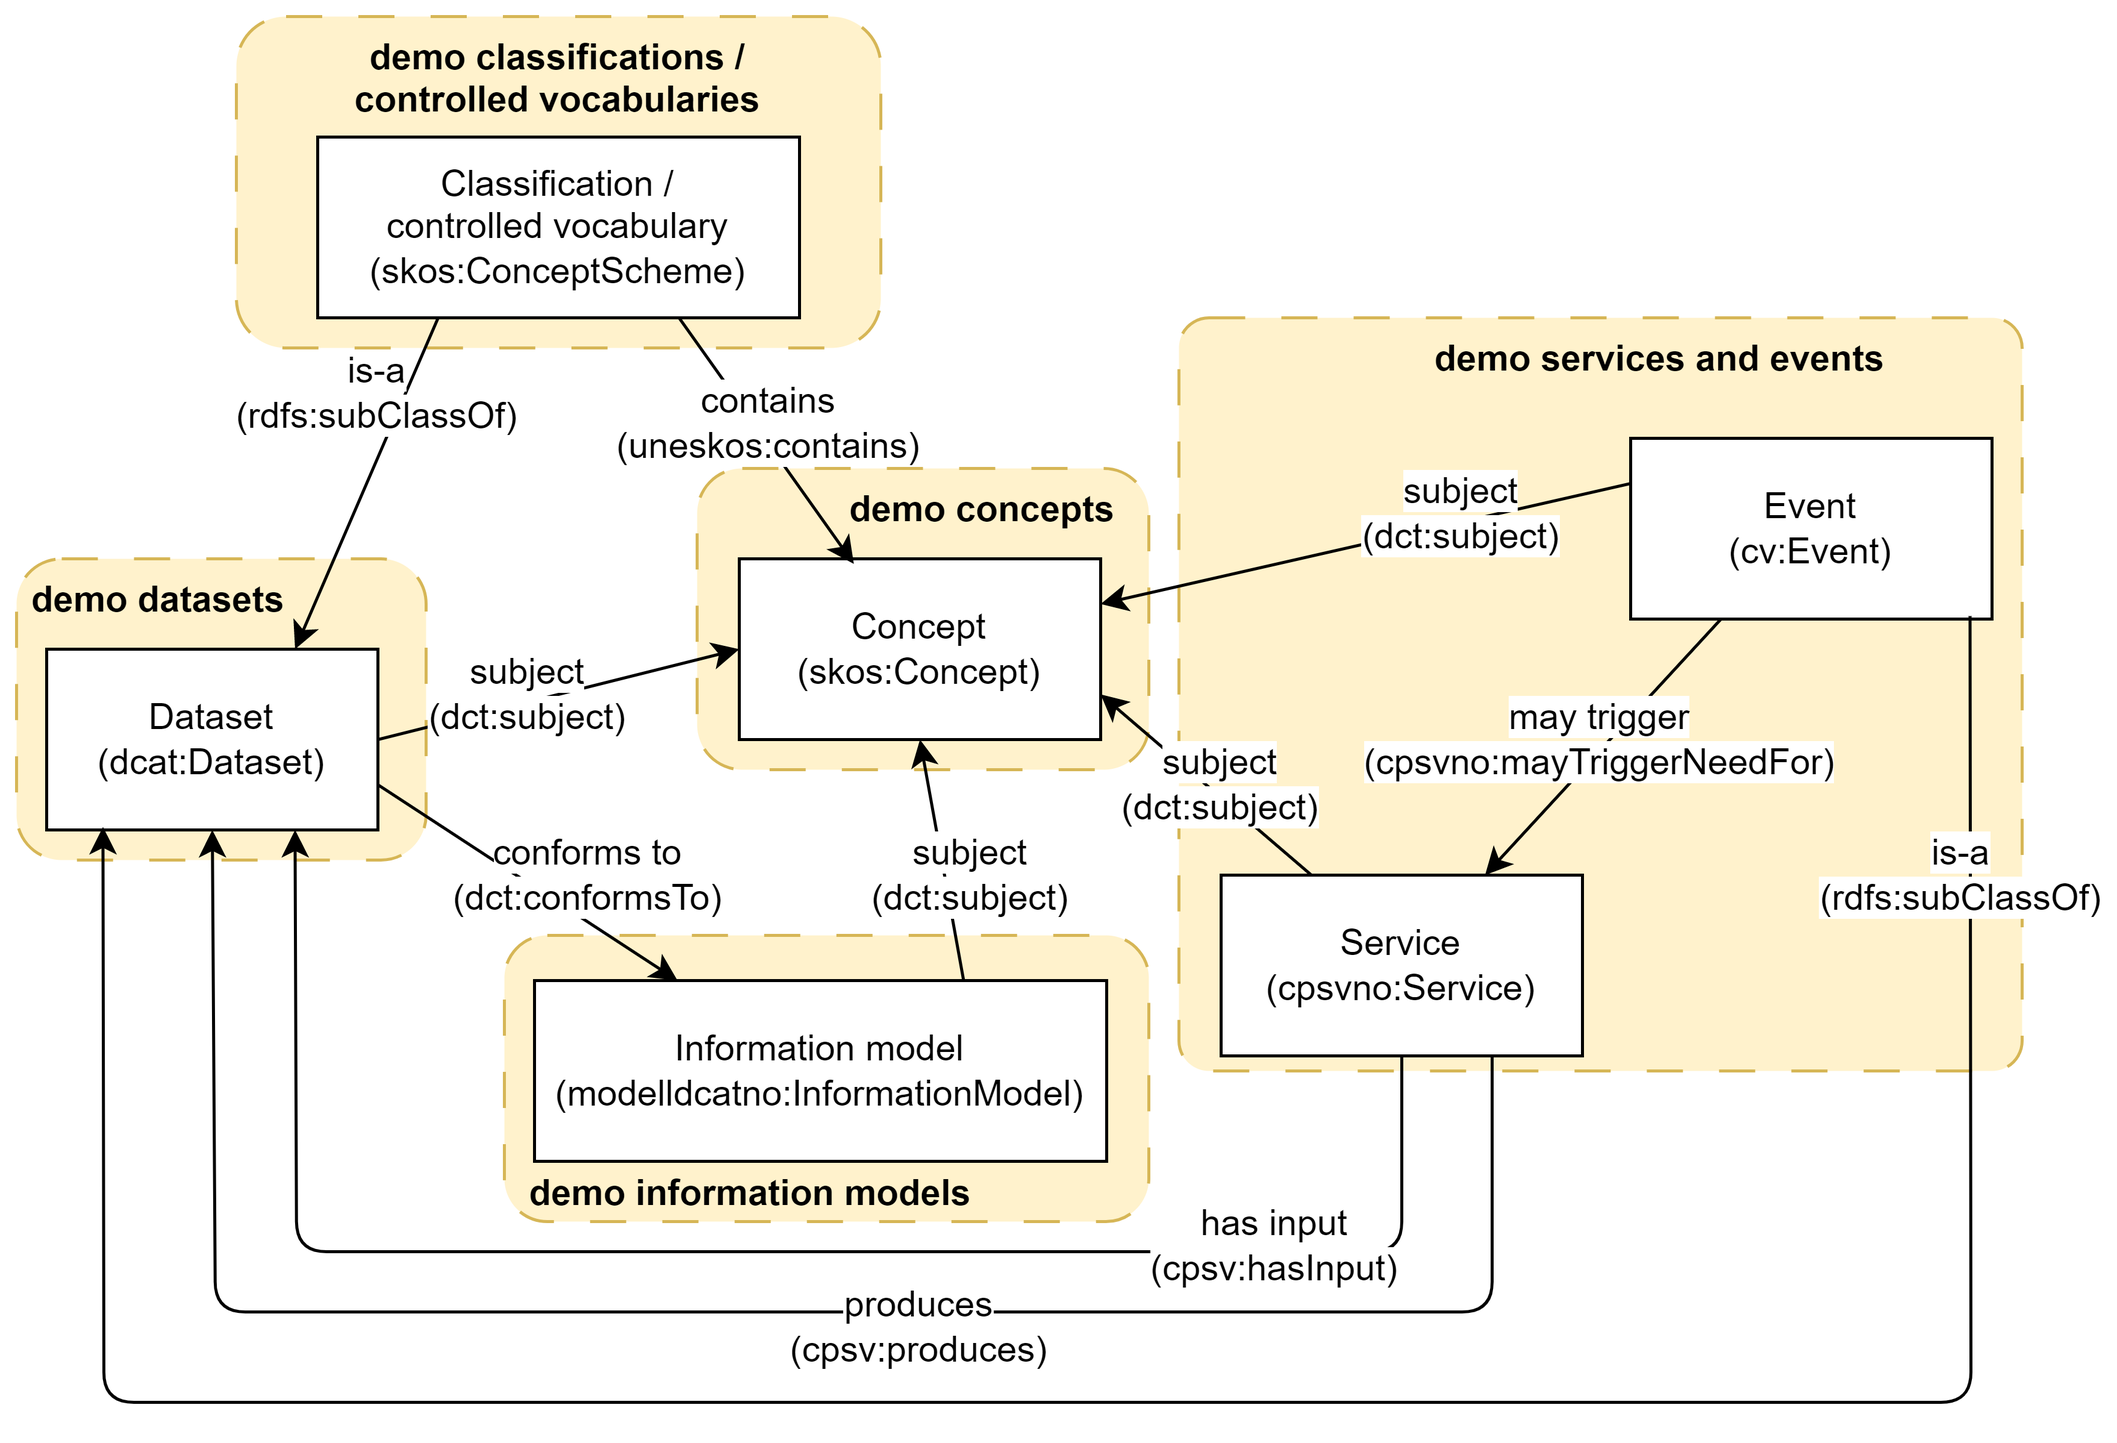
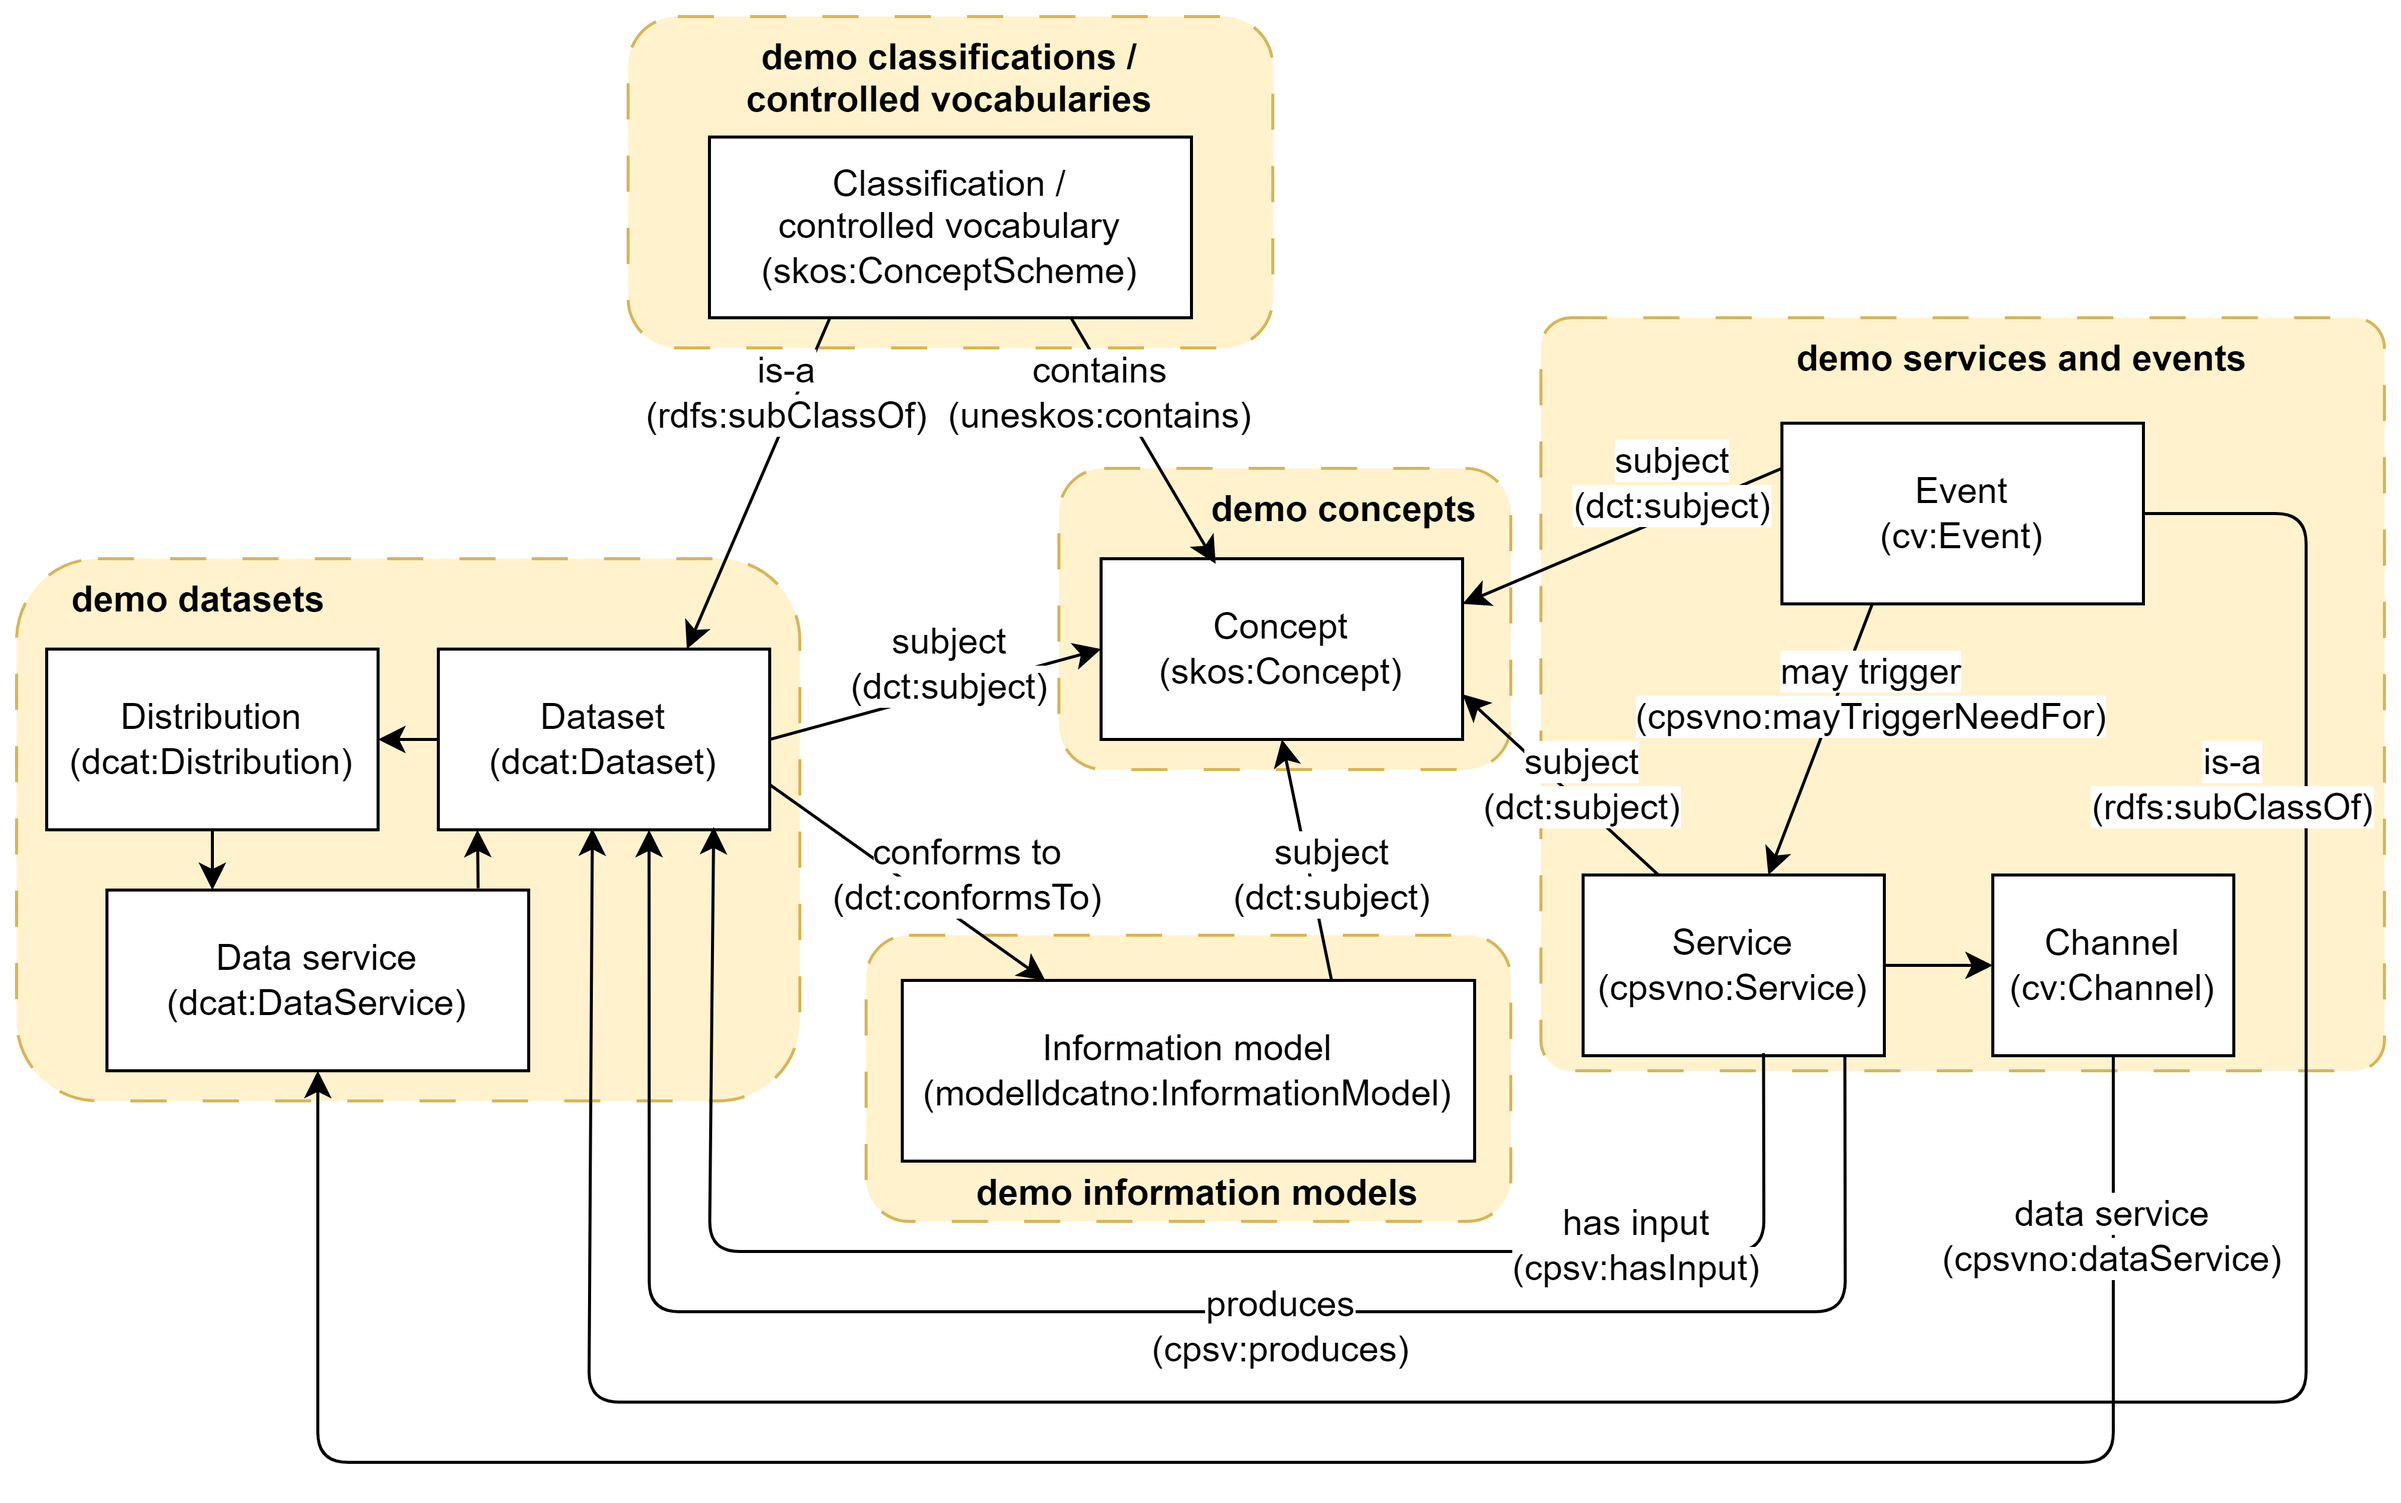
deploy: 37d358783f29a6a3654366e75a44c6f5267a7b73

diff --git a/overview/index.html b/overview/index.html
@@ -576,7 +576,7 @@ body.book #toc,body.book #preamble,body.book h1.sect0,body.book .sect1>h2{page-b
 <p><a href="../skos-ap-no/">Demo concepts</a>: In this showroom we will demonstrate the usage of <a href="https://data.norge.no/specification/skos-ap-no-begrep" class="ext-link" target="_blank" rel="noopener">SKOS-AP-NO-Begrep ↗</a> (the Norwegian application profile of W3C&#8217;s <a href="https://www.w3.org/2004/02/skos/" class="ext-link" target="_blank" rel="noopener">SKOS ↗</a>), to describe and publish machine-readable concepts and concept collections, with cross-references to some of the demo resources covered by the other specifications.</p>
 </li>
 <li>
-<p><a href="../dcat-ap-no/">Demo datasets</a>: In this showroom we will demonstrate the usage of <a href="https://data.norge.no/specification/dcat-ap-no" class="ext-link" target="_blank" rel="noopener">DCAT-AP-NO ↗</a> (the Norwegian application profile of EU&#8217;s <a href="https://github.com/SEMICeu/BregDCAT-AP" class="ext-link" target="_blank" rel="noopener">BRegDCAT-AP ↗</a>), to describe and publish machine-readable descriptions of datasets, with cross-references to some of the other demo resources covered by the other specifications.</p>
+<p><a href="../dcat-ap-no/">Demo datasets</a>: In this showroom we will demonstrate the usage of <a href="https://data.norge.no/specification/dcat-ap-no" class="ext-link" target="_blank" rel="noopener">DCAT-AP-NO ↗</a> (the Norwegian application profile of EU&#8217;s <a href="https://github.com/SEMICeu/BregDCAT-AP" class="ext-link" target="_blank" rel="noopener">BRegDCAT-AP ↗</a>), to describe and publish machine-readable descriptions of datasets with distributions and data services, with cross-references to some of the other demo resources covered by the other specifications.</p>
 </li>
 <li>
 <p><a href="../modelldcat-ap-no/">Demo information models</a>: In this showroom we will demonstrate the usage of <a href="https://data.norge.no/specification/modelldcat-ap-no" class="ext-link" target="_blank" rel="noopener">ModellDCAT-AP-NO ↗</a> (the Norwegian application profile of <a href="https://data.norge.no/specification/dcat-ap-no" class="ext-link" target="_blank" rel="noopener">DCAT-AP-NO ↗</a>), to describe and publish machine-readable descriptions of information models, with cross-references to some of the other demo resources covered by the other specifications.</p>
@@ -751,7 +751,7 @@ body.book #toc,body.book #preamble,body.book h1.sect0,body.book .sect1>h2{page-b
 </div>
 <div id="footer">
 <div id="footer-text">
-Last updated 2023-05-19 14:21:10 UTC
+Last updated 2023-05-22 12:29:33 UTC
 </div>
 </div>
 </body>
